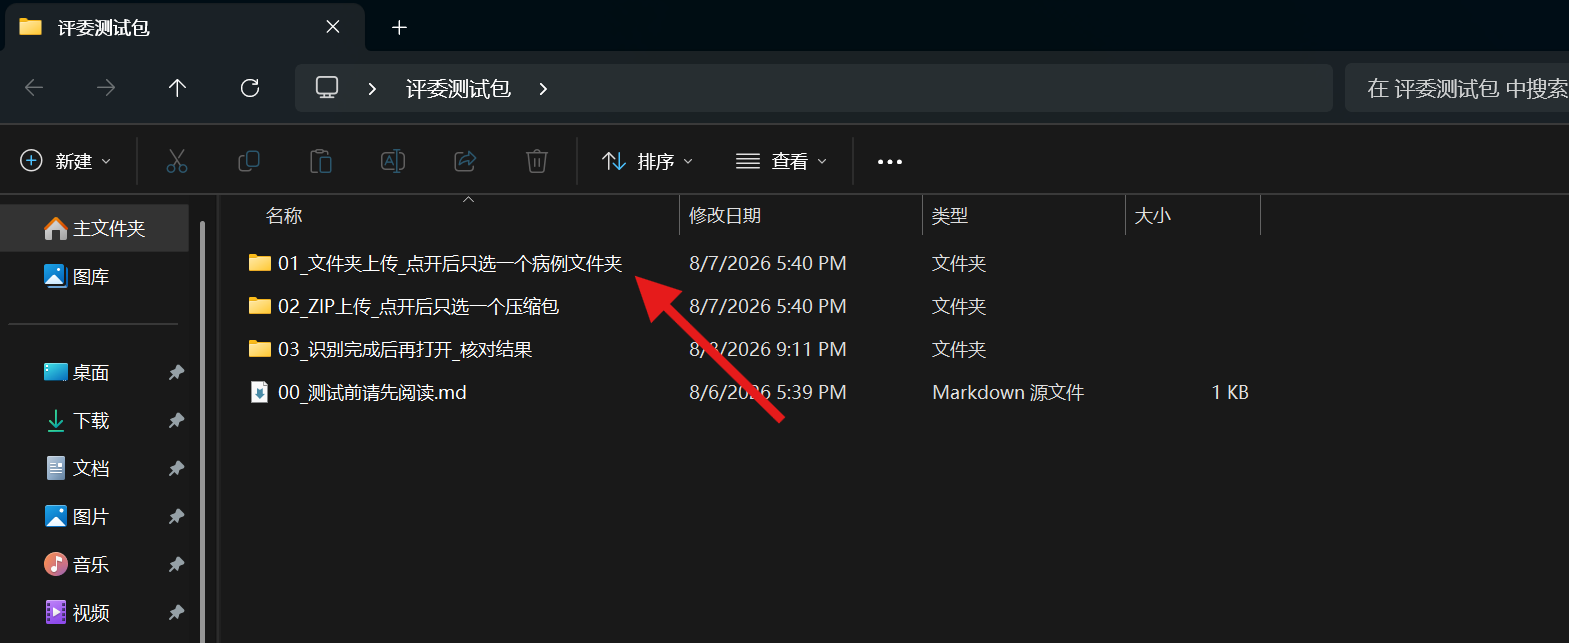
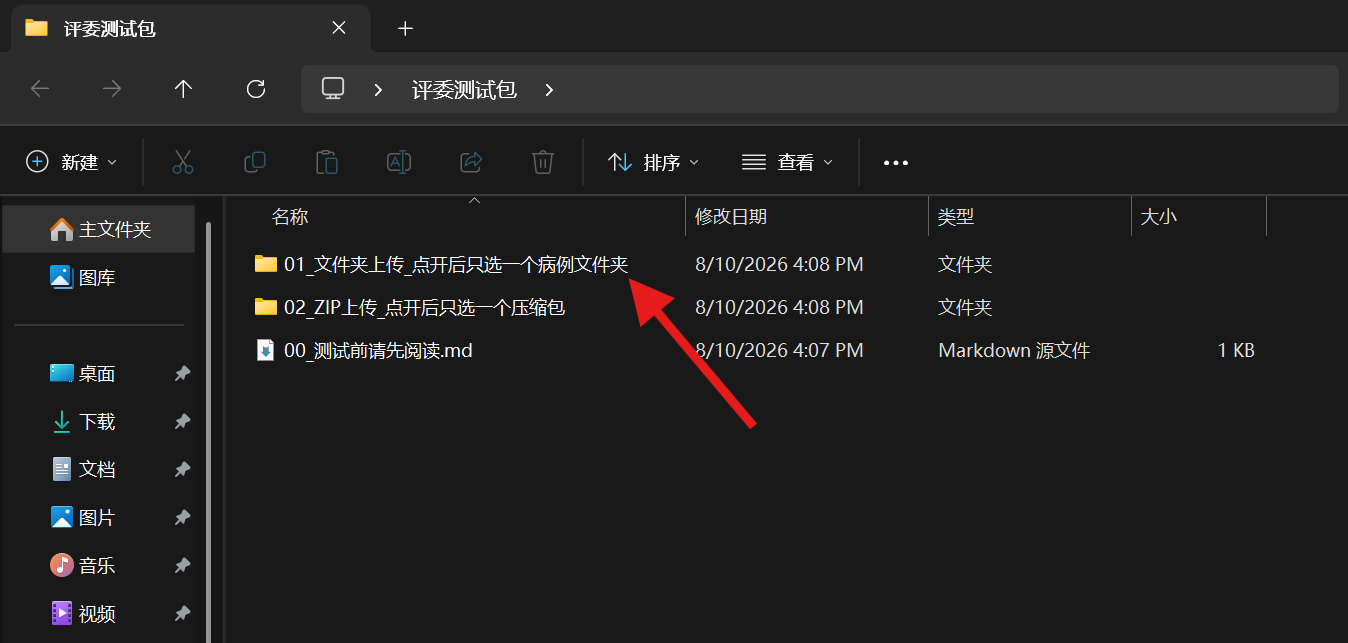
更写文档

diff --git a/assets/guide.md b/assets/guide.md
@@ -12,7 +12,7 @@
 
 ## 上传
 
-解压完成后双击点开文件夹并按照 `00`、`01`、`02`、`03` 的顺序进行测试
+解压完成后双击点开文件夹并按照 `00`、`01`、`02` 的顺序进行测试
 > 若是依照该指南进行操作可直接跳过 `00_测试前请先阅读.md` 从 `01_文件夹上传_点开后只选一个病例文件夹` 开始
 
 ![03指引图片](./guideSources/03.png)
@@ -53,9 +53,7 @@
 
 页面上方先显示`综合结果`，其中包含分类与分割的联合判断
 
-下方依次显示同病例的`随访对比`、`影像学关键特征`、模型依据、最大病灶层切片和概率曲线
-
-AI 辅助分析在有有效内容时显示结论、建议和观察项
+下方依次显示同病例的`随访对比`、`影像学关键特征`、模型依据、最大病灶层切片和概率曲线、AI 辅助分析
 
 用户可展开`查看分割区域明细`或`查看详细数据`查看定量字段
 
@@ -63,9 +61,9 @@ AI 辅助分析在有有效内容时显示结论、建议和观察项
 
 右侧可切换`数据分析`与`3D视图`
 
-用户可在`数据分析`中查看任务文件和结构化结果
+用户可在`3D查看`更直观了解影像图
 
-同时可点击`3D查看`更直观了解影像图
+同时可点击`数据分析`中查看任务文件和结构化结果
 
 ![12指引图片](./guideSources/12.png)
 
@@ -75,13 +73,8 @@ AI 辅助分析在有有效内容时显示结论、建议和观察项
 
 ## 核对
 
-识别完成后，打开 `03_识别完成后再打开_核对结果` 内的`预期结果.csv`，查看预期结果
-> 该文件可通过 `Excel` 查看
+识别完成后，在病例分析左下查看详细数据里核对测试样例运行结果
 
 ![14指引图片](./guideSources/14.png)
-
-![15指引图片](./guideSources/15.png)
-
-![16指引图片](./guideSources/16.png)
 
 至此样例测试流程结束
